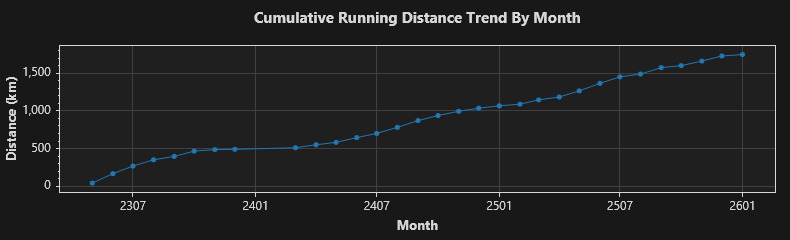
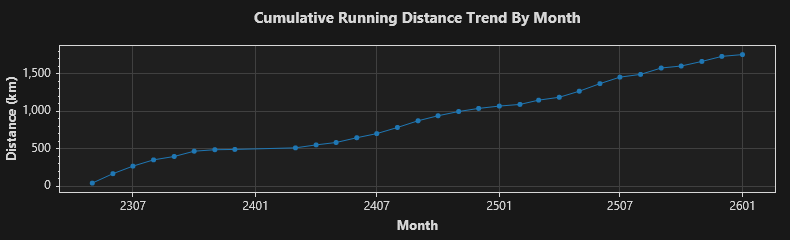
2026/1/22 跑步 5.33 公里

diff --git a/trend.md b/trend.md
@@ -1,4 +1,4 @@
-### Total: 295 days, 1747.32 km.
+### Total: 296 days, 1752.65 km.
 
 
 ![Monthly](https://github.com/prime167/MyRunningLog/blob/main/data/CumulativeTrendByMonth.png)
